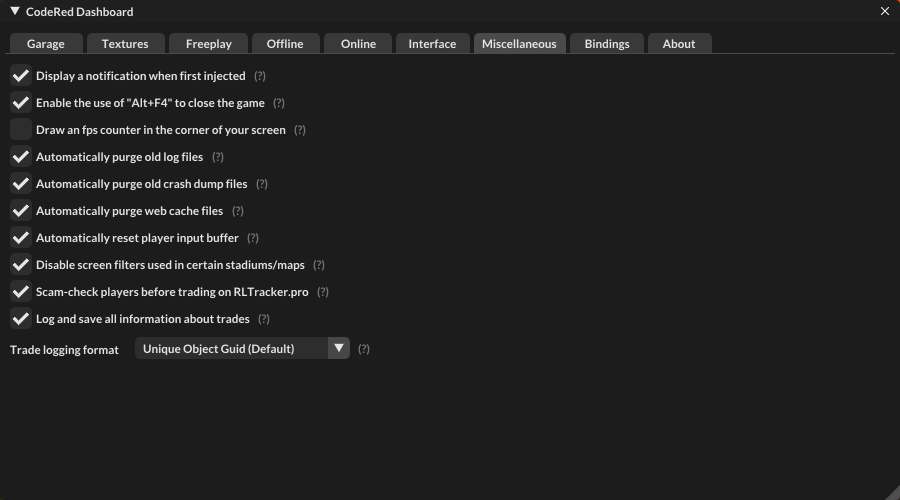
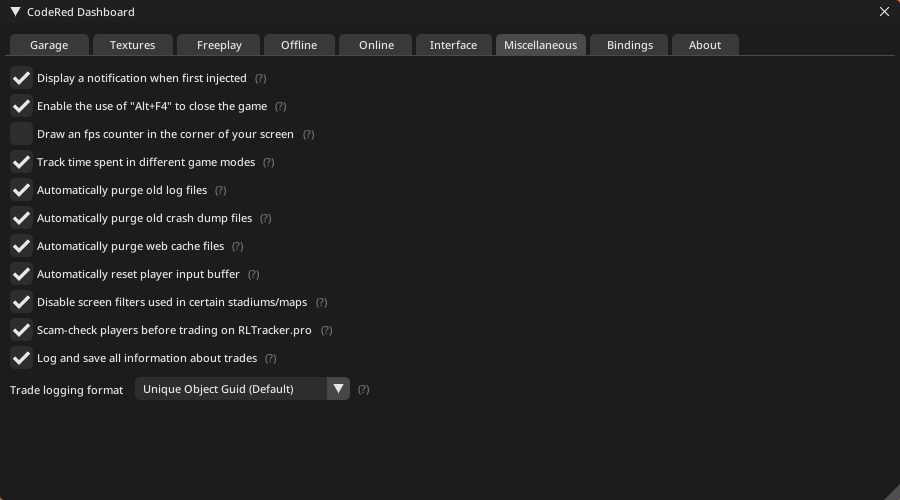
Initial Commit

diff --git a/documentation.html b/documentation.html
@@ -88,6 +88,7 @@
                     <li class="nav-item"><a class="nav-link scrollto" href="#item-5-8">Style Editor</a></li>
                     <li class="nav-item"><a class="nav-link scrollto" href="#item-5-9">Terminal</a></li>
                     <li class="nav-item"><a class="nav-link scrollto" href="#item-5-10">Playlist Tracker</a></li>
+                    <li class="nav-item"><a class="nav-link scrollto" href="#item-5-10-5">Texture Browser</a></li>
                     <li class="nav-item"><a class="nav-link scrollto" href="#item-5-11">Thumbnail Renderer</a></li>
 				    <li class="nav-item section-title mt-3"><a class="nav-link scrollto" href="#section-6"><span class="theme-icon-holder me-2"><i class="fas fa-lightbulb"></i></span>FAQs</a></li>
 				    <li class="nav-item"><a class="nav-link scrollto" href="#item-6-1">Whats CodeRed</a></li>
@@ -95,7 +96,7 @@
                     <li class="nav-item"><a class="nav-link scrollto" href="#item-6-3">Custom Titles</a></li>
                     <li class="nav-item"><a class="nav-link scrollto" href="#item-6-4">Bug Reporting</a></li>
 				    <li class="nav-item section-title mt-3"><a class="nav-link scrollto" href="#section-7"><span class="theme-icon-holder me-2"><i class="fas fa-book"></i></span>Changelog</a></li>
-				    <li class="nav-item"><a class="nav-link scrollto" href="#item-7-1">Version 1.6.4</a></li>
+				    <li class="nav-item"><a class="nav-link scrollto" href="#item-7-1">Version 1.6.5</a></li>
 			    </ul>
 		    </nav>
 	    </div>
@@ -1680,6 +1681,10 @@
                                         <td>Track and log match statistics to offline files.</td>
                                     </tr>
                                     <tr>
+                                        <th class="theme-bg-light"><b>tracker_log_time &lttrue-false&gt</b></th>
+                                        <td>Track and log seconds spent in different game states to offline files.</td>
+                                    </tr>
+                                    <tr>
                                         <th class="theme-bg-light"><b>tracker_notify_skill &lttrue-false&gt</b></th>
                                         <td>Display a notification when your skill rating has been updated.</td>
                                     </tr>
@@ -1959,6 +1964,18 @@
                         </div>
 					</section>
 
+                    <section class="docs-section" id="item-5-10-5">
+                        <h2 class="section-heading">Texture Browser</h2>
+                        <h4>Window Name: <code>textures</code></h4>
+                        <p>The texture browser is an experimental feature that lets you view and export almost any loadded texture in the game. Some formats that use a really high compression format may not be supported for exporting.</p>	    
+
+                        <div class="simplelightbox-gallery row mb-3">
+                            <div class="col-12 col-md-4 mb-3">
+                                <a href="assets/images/windows/textures-1.png"><img class="figure-img img-fluid shadow rounded" src="assets/images/windows/textures-1.png" alt="" title=""/></a>
+                            </div>
+                        </div>
+					</section>
+
                     <section class="docs-section" id="item-5-11">
                         <h2 class="section-heading">Thumbnail Renderer</h2>
                         <h4>Window Name: <code>thumbnails</code></h4>
@@ -2005,6 +2022,16 @@
 					    <h1 class="docs-heading">Changelog</h1>
 				    </header>
 				     <section class="docs-section" id="item-7-1">
+                        <section class="docs-section">
+                            <h2 class="section-heading">Version 1.6.5 (June 27th 2023)</h2>
+                            <h5>- Added a new tracker setting <code>tracker_log_time</code>, which tracks time spent in different game states. Main menu, freeplay, training packs, ranked/casual, etc... This will be utilized more in the future in combination with the session tracker.</h5>
+                            <h5>- Fixed player names that were UTF32 decoding to proper UTF8, resulting in random characters (They're back to being white rectangles like Psyonix intended).</h5>
+                            <h5>- Fixed a crash related to custom avatars if a player left and was replaced in the middle of a match.</h5>
+                            <h5>- Fixed a crash related to titles applying too early before a match started.</h5>
+                            <h5>- Possibly fixed a crash related to using unreal commands to join the main menu/freeplay at the very end of online games.</h5>
+                            <h5>- Changed the layout of the texture browser to display more info.</h5>
+                        </section>
+
                         <section class="docs-section">
                             <h2 class="section-heading">Version 1.6.4 (June 21st 2023)</h2>
                             <h5>- Added support for the BC3 pixel format for thumbnails, they are now they are exported as ".dds" files.</h5>
